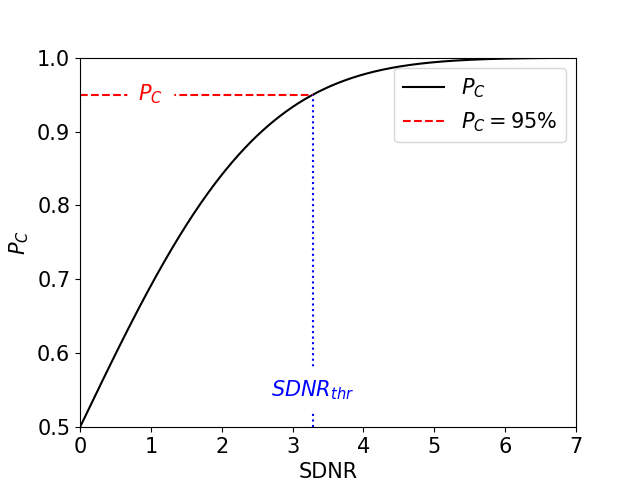
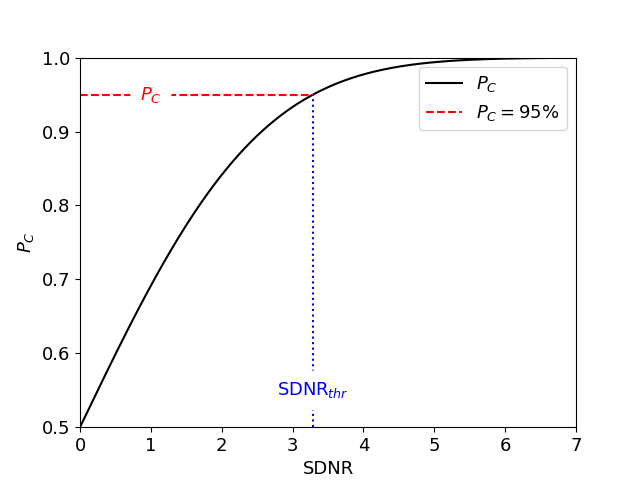
edited illusatration of P_C

diff --git a/illustrations/p_recall_plot.py b/illustrations/p_recall_plot.py
@@ -17,15 +17,15 @@ sdnr_thr = erfinv(2*p_thr-1)*np.sqrt(8)
 y_values = 0.5 + 0.5*erf(x_values/np.sqrt(8))
 
 #y1=erfinv(x_values/np.sqrt(8))-erfinv(x_values/(3*np.sqrt(8)))
-legend_fs =15
-tick_fs = 15
-tick_text= 18
+legend_fs =13
+tick_fs = 13
+tick_text= 17
 
 #plt.rcParams['axes.linewidth'] = 1.5 # Spessore del box
 plt.plot(x_values, y_values, label=R'$P_C$',color='black',linewidth=1.5)
 plt.hlines(y=0.95, xmin=0, xmax=sdnr_thr, color='red', linestyle='--',label=r'$P_C=95\%$')
 plt.vlines(x=sdnr_thr, ymin=0.5, ymax=0.95, color='blue', linestyle=':')
-plt.text(sdnr_thr, 0.55, r'$SDNR_{thr}$', color='blue', ha='center', va='center', bbox=dict(facecolor='white', edgecolor='white', boxstyle='round,pad=0.5'),fontsize=tick_fs)
+plt.text(sdnr_thr, 0.55, r'$\text{SDNR}_{thr}$', color='blue', ha='center', va='center', bbox=dict(facecolor='white', edgecolor='white', boxstyle='round,pad=0.5'),fontsize=tick_fs)
 plt.text(1, 0.95, r'$P_{C}$', color='red',  ha='center', va='center', bbox=dict(facecolor='white', edgecolor='white', boxstyle='round,pad=0.5'),fontsize=tick_fs)
 plt.title('')
 plt.xlim(0,7)
